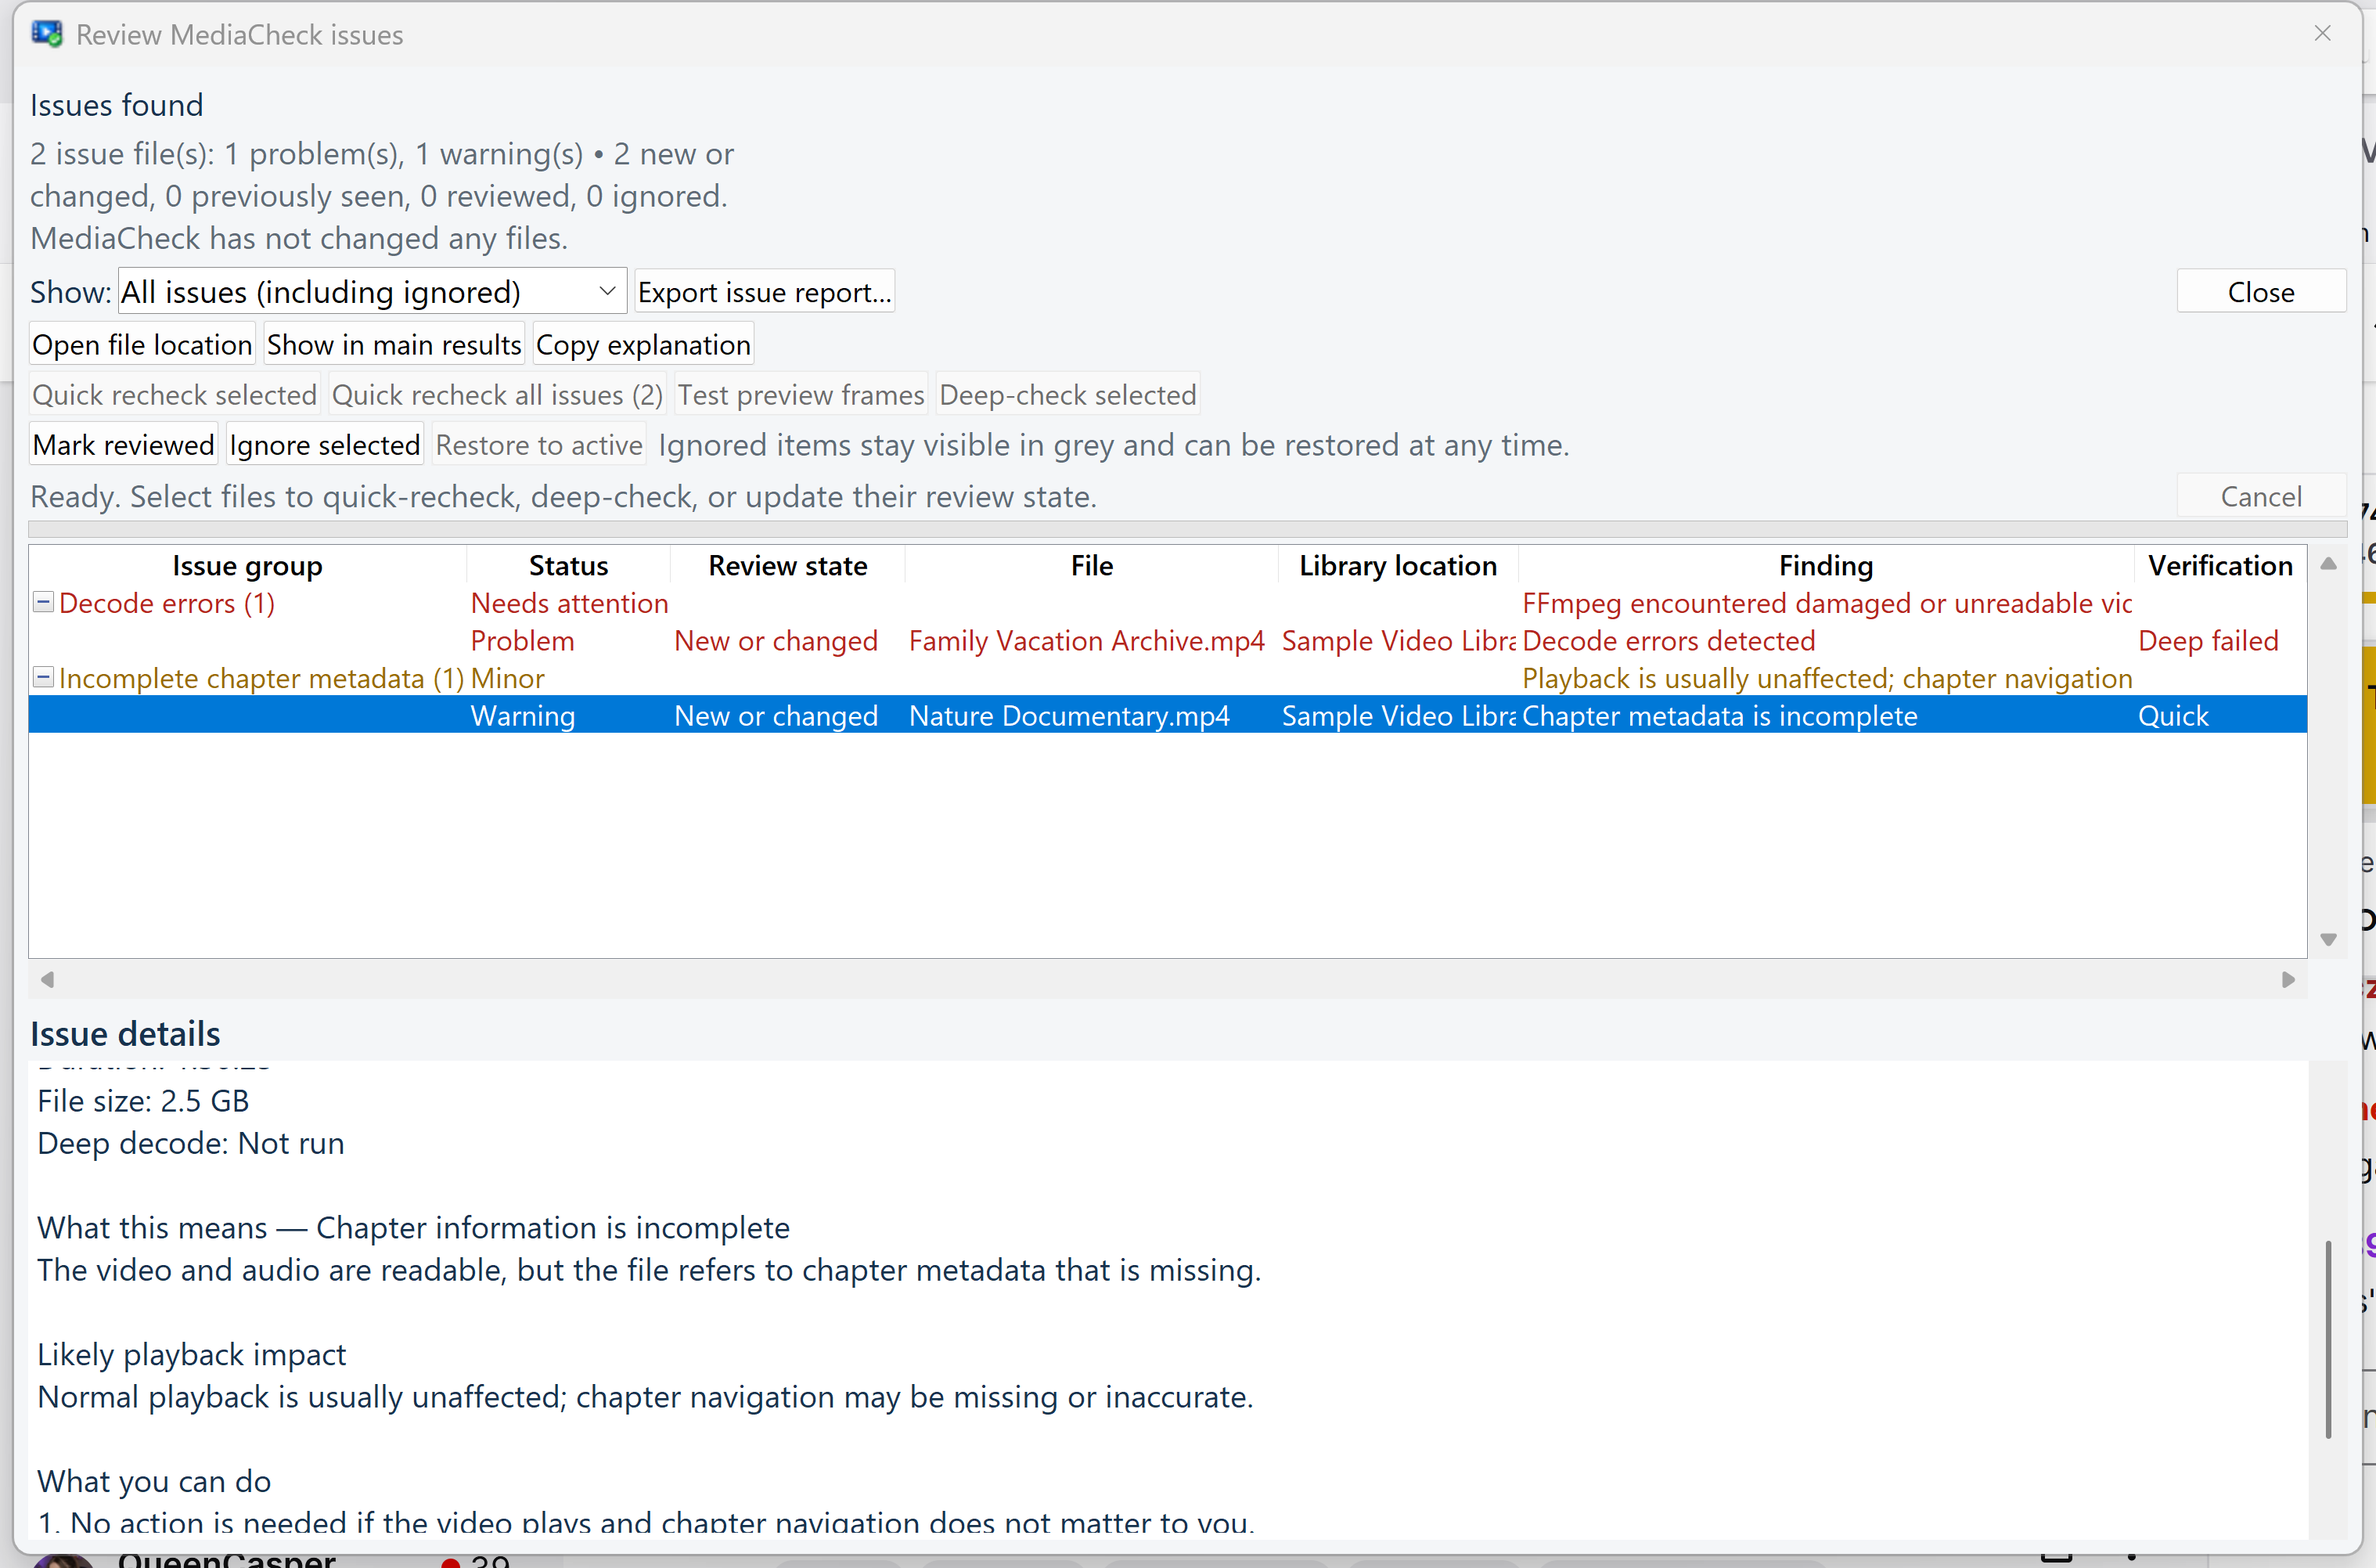
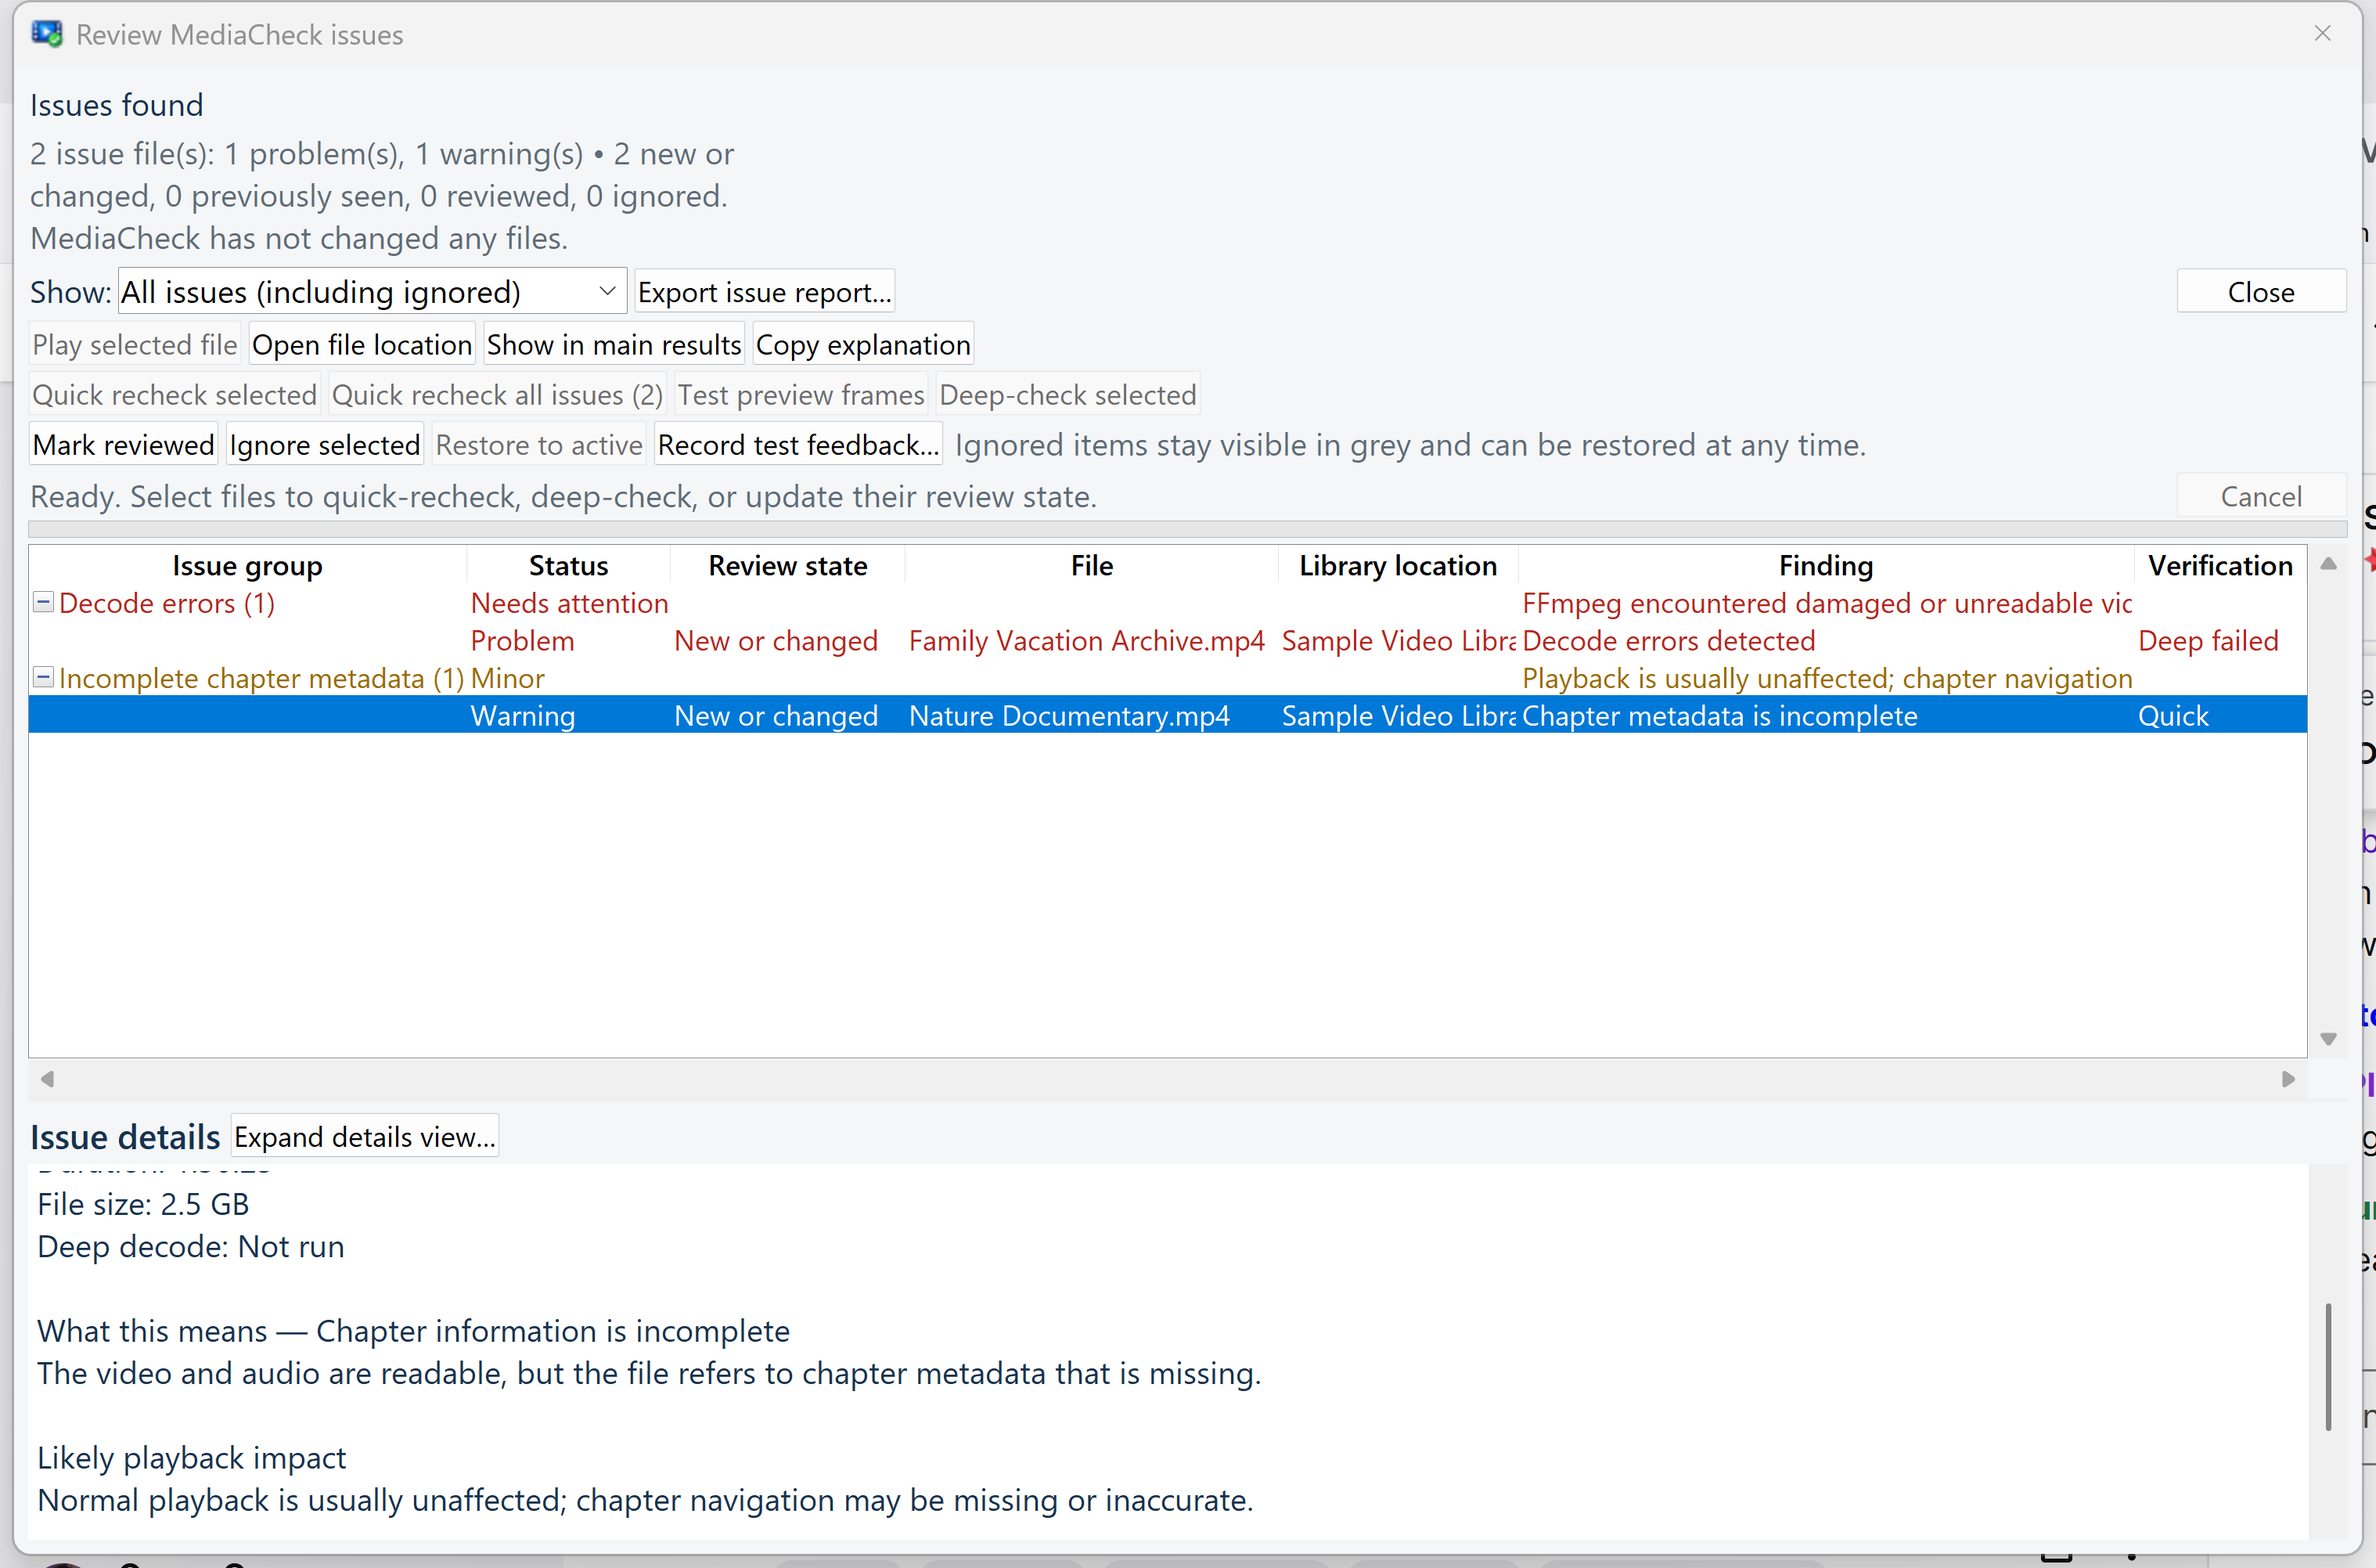
Prepare MediaCheck 0.15.1 beta

diff --git a/RELEASE-NOTES.md b/RELEASE-NOTES.md
@@ -1,22 +1,23 @@
-# MediaCheck 0.15.0 Beta
+# MediaCheck 0.15.1 Beta
 
-## Beta-readiness improvements
+## Issue-review improvements
 
-- Added one-time **What's new** notes after an upgrade.
-- Added a manual, HTTPS-only update-checking framework. It never silently downloads or installs software.
-- Added a recovery window for unexpected interface errors with Continue, Diagnostics, and copy-details actions.
-- Expanded automated coverage for update safety, interrupted work, large libraries, and settings compatibility.
+- Enlarged the inline Issue details area and added a draggable divider.
+- Added **Expand details view…** beside the Issue details heading for a separate resizable reading window.
+- Added playback testing and structured feedback recording for flagged files.
+- Issue-report exports now include playback observations, tester severity, notes, container, and codecs.
 
-## Existing highlights
+## Decode-location guidance
 
-- Read-only quick and deep health checks using FFprobe and FFmpeg
-- Fast reuse of unchanged scan results
-- Multiple library locations across local, removable, and network storage
-- Plain-language issue guidance and focused issue rechecks
-- Persistent Reviewed and Ignored issue states
-- Scan history and change reports
-- Fast duplicate candidates, full byte verification, and frame comparison
-- Privacy-conscious diagnostics and support-bundle export
+- Deep checks now record FFmpeg's last reported decode position and identify approximately where playback should be inspected.
+- A missing FFmpeg timestamp is explicitly reported as **Decode error location: unavailable** instead of being confused with a genuine error at `0:00:00`.
+- Plain-language guidance explains what the location means and what to check.
+
+## Other refinements
+
+- Added a dedicated pause/enable action for individual library locations.
+- Improved issue-pane sizing and button placement on common Windows displays.
+- Expanded automated coverage to 79 passing tests.
 
 ## Known beta limitations
 
@@ -30,4 +31,4 @@
 
 SHA-256:
 
[2 lines of base64/hex data omitted]

diff --git a/README.md b/README.md
@@ -14,7 +14,7 @@ This privacy-safe demonstration uses sample filenames. MediaCheck separates the 
 
 ## Download the beta
 
-[Download MediaCheck 0.15.0 Beta](../../releases/tag/v0.15.0-beta)
+[Download MediaCheck 0.15.1 Beta](../../releases/tag/v0.15.1-beta)
 
 The current public beta supports 64-bit Windows 11. The installer is not digitally signed yet, so Windows SmartScreen may identify it as an unrecognized application. Every release includes a SHA-256 checksum so the installer can be verified after download.
 
@@ -25,6 +25,8 @@ The current public beta supports 64-bit Windows 11. The installer is not digital
 - Fast refreshes that reuse unchanged scan results
 - Healthy, Warning, and Problem classifications
 - Plain-language explanations and focused rechecks
+- Approximate decode-error positions and structured playback feedback
+- Expandable, resizable issue details
 - Persistent Reviewed and Ignored issue states
 - Scan history and change reports
 - Duplicate candidates, full byte verification, and preview-frame comparison
@@ -50,7 +52,7 @@ Use [GitHub Issues](../../issues) to report confusing results, possible false po
 
 ## Development disclosure
 
-MediaCheck was built through an iterative process with substantial AI coding assistance under human direction and hands-on Windows testing. Version 0.15.0 includes 73 automated tests.
+MediaCheck was built through an iterative process with substantial AI coding assistance under human direction and hands-on Windows testing. Version 0.15.1 includes 79 automated tests.
 
 ## Source availability
 
